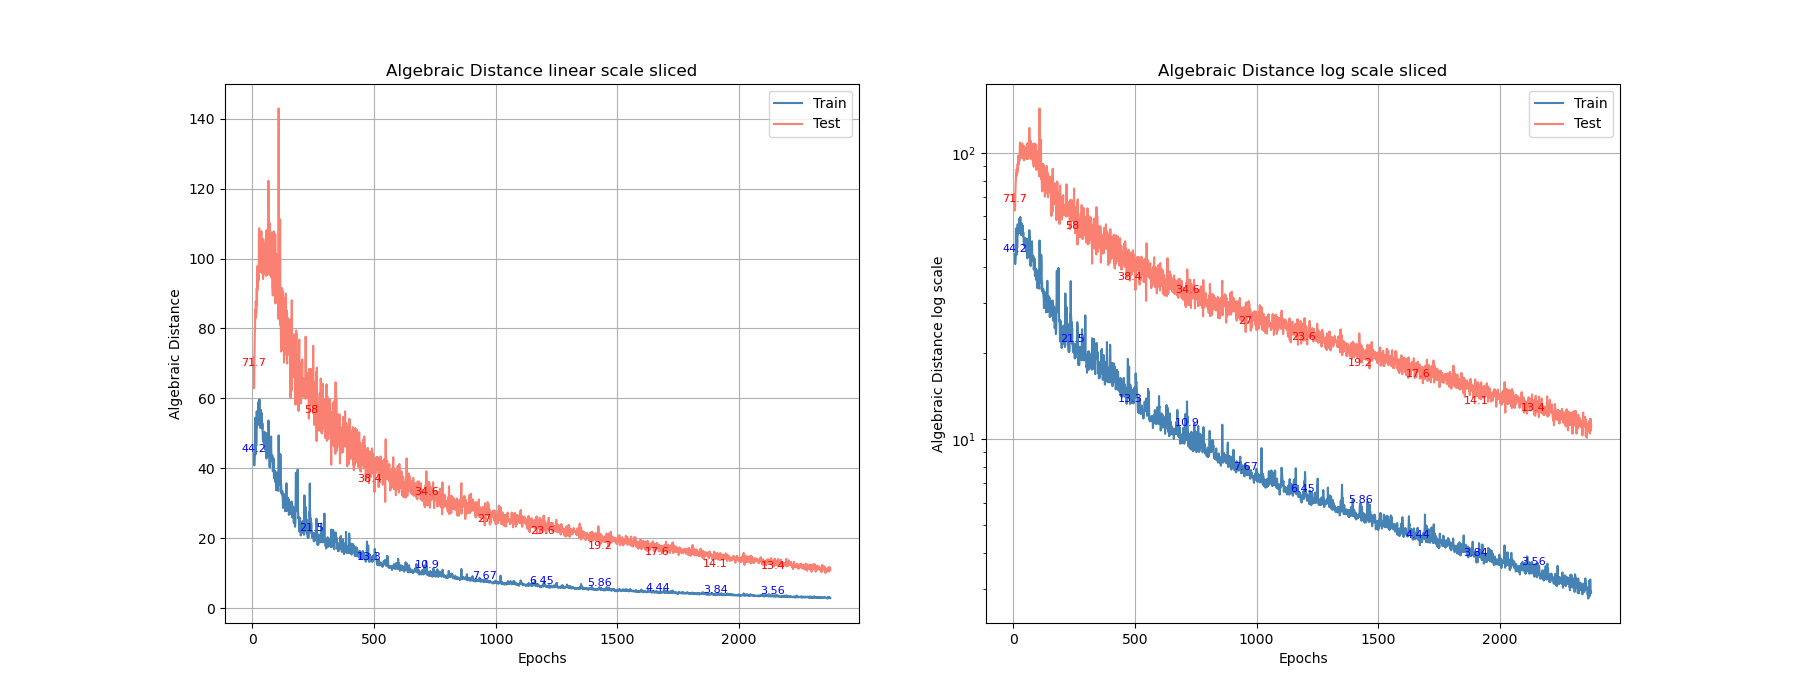
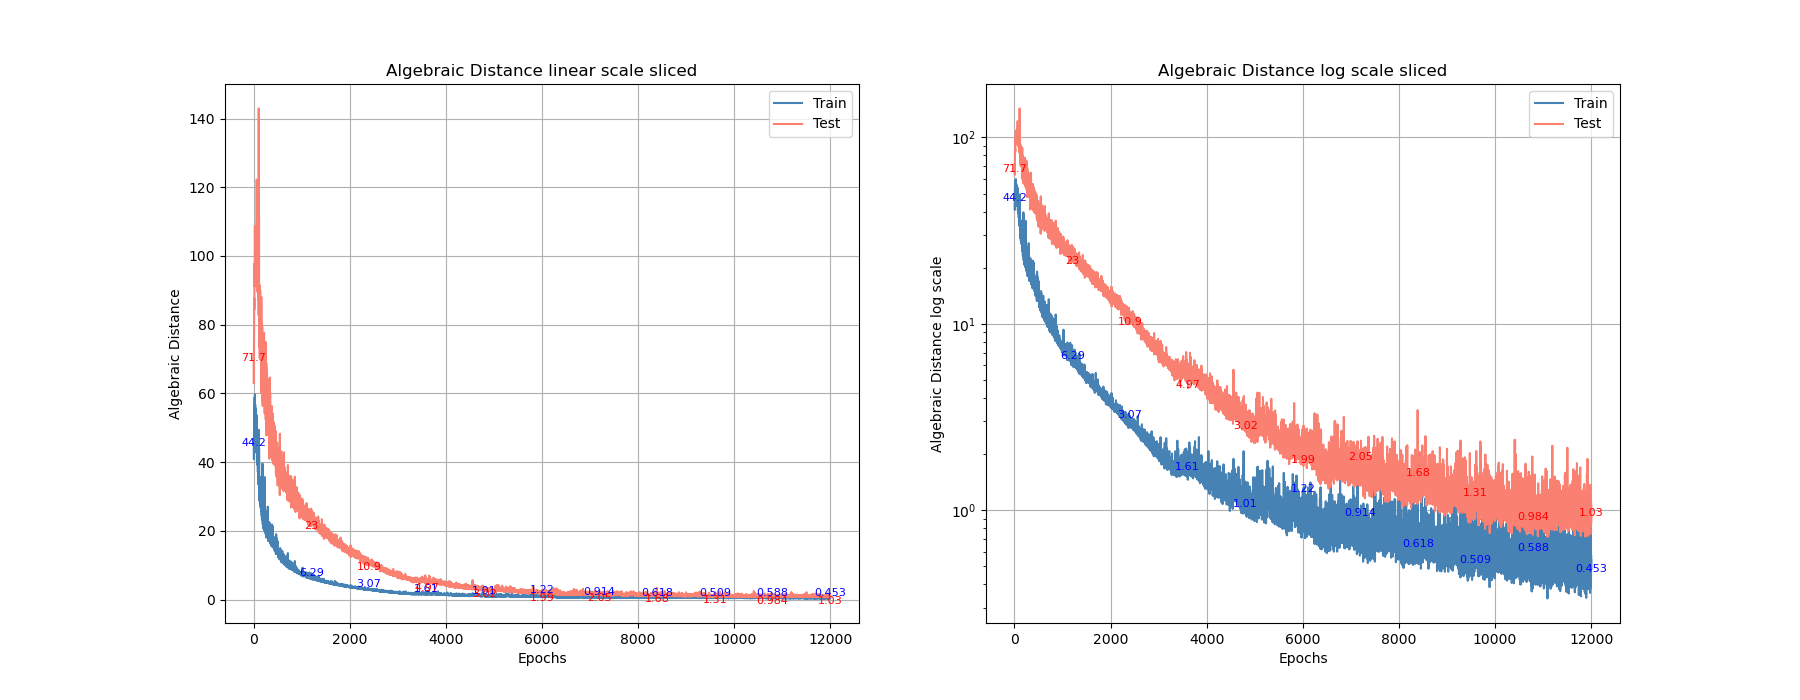
.

diff --git a/PlotFromText.py b/PlotFromText.py
@@ -110,7 +110,7 @@ def plot_parameter(x, y1, y2, title, plots_path=None, x_label="Epochs", save=Fal
 
 
 if __name__ == "__main__":
-    plots_path = "plots/Stereo/Winners/SED_0.5__L2_1__huber_1__lr_0.0001__conv__CLIP__use_reconstruction_True/BS_8__ratio_0.025__tail__frozen_0"
+    plots_path = "plots/Stereo/Winners/SED_0.5__L2_1__huber_1__lr_0.0001__conv__CLIP__use_reconstruction_True/BS_8__ratio_0.0375__mid__frozen_0"
     file_path = os.path.join(plots_path, "output.log")
     save = True
 
@@ -127,3 +127,4 @@ if __name__ == "__main__":
         plot_parameter(epochs, alg_sqr_dists, val_alg_sqr_dists, "Algebraic Sqr Distance", plots_path, save=save)
     except: 
         pass
+    
